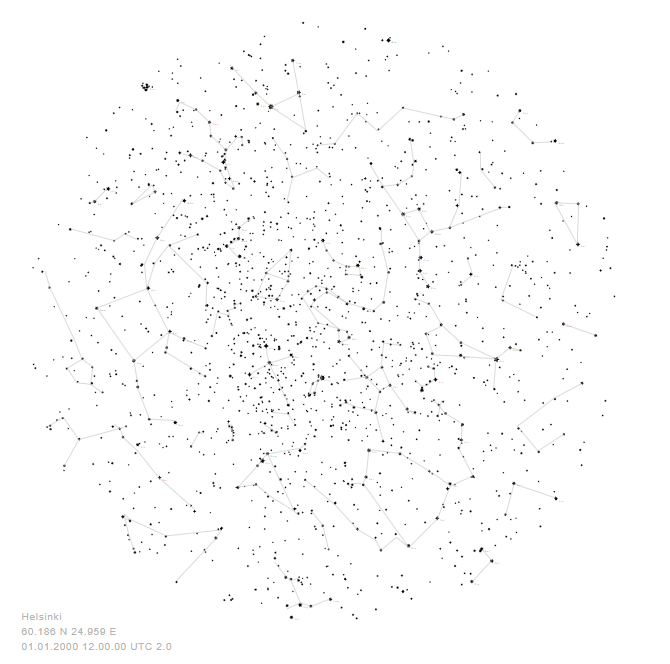
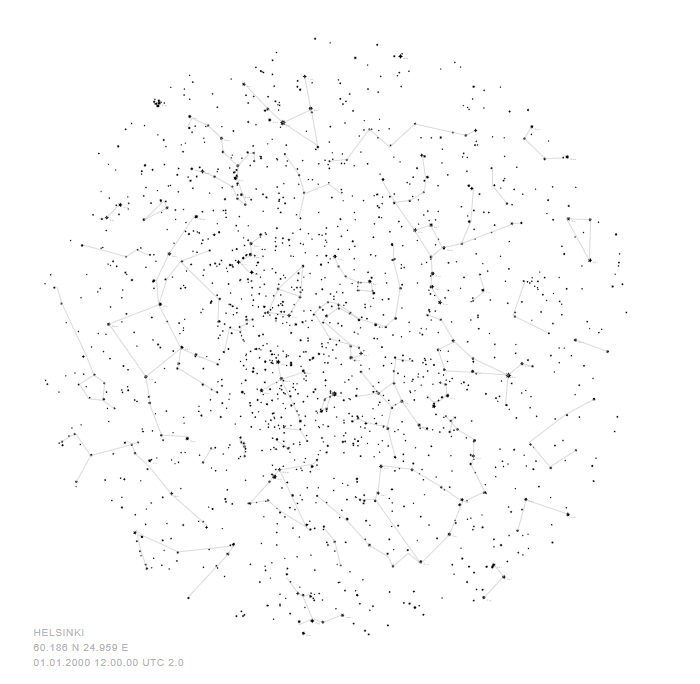
gixed dark/light mode

diff --git a/starmap.py b/starmap.py
@@ -20,10 +20,10 @@ except ImportError:
 font_style = "font-size:10px; letter-spacing:0.7px; font-family:sans-serif; stroke-width:4;"
 font_style2 = "font-size:2px; letter-spacing:0.7px; font-family:sans-serif; stroke-width:2;"
 
-background_color = "rgb(255,255,255)"#rgb(45,59,98)"
-line_color = "rgb(180,180,180)" #"rgb(255,255,255)"
-star_color = "rgb(0,0,0)" #"rgb(255,255,255)"
-constellation_color = "rgb(0,0,0)" #"rgb(255,255,255)"
+light_background_color = "rgb(255,255,255)"#rgb(45,59,98)"
+light_line_color = "rgb(180,180,180)" #"rgb(255,255,255)"
+light_star_color = "rgb(0,0,0)" #"rgb(255,255,255)"
+light_constellation_color = "rgb(0,0,0)" #"rgb(255,255,255)"
 
 dark_background_color = "rgb(45,59,98)"
 dark_line_color = "rgb(255,255,255)"
@@ -181,14 +181,14 @@ def detect_city_name(lat, lon):
         if not location:
             return ""
         address = location.raw.get("address", {})
-        return (
+        return ((
             address.get("city")
             or address.get("town")
             or address.get("village")
             or address.get("municipality")
             or address.get("county")
             or ""
-        )
+        ).upper())
     except Exception as ex:
         print(f"city lookup failed ({ex})")
         return ""
@@ -259,12 +259,18 @@ if print_info:
 	print("City name:", info)
 
 # Set color scheme
-if not args.light:
+if args.light:
+	background_color = light_background_color
+	line_color = light_line_color
+	star_color = light_star_color
+	constellation_color = light_constellation_color
+else:
     background_color = dark_background_color
     line_color = dark_line_color
     star_color = dark_star_color
     constellation_color = dark_constellation_color
 
+print("Generating starmap with color scheme:", "light" if args.light else "dark")
 # ########## DRAWING FUNCTIONS  ###########################################
 
 # Generates random star shape to given coordinate and magnitude and color
